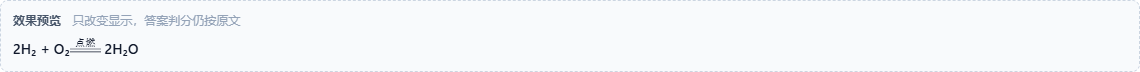
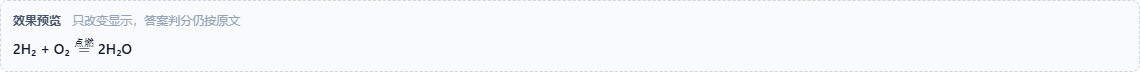
fix(editor): 条件改为等号正上方 \overset
- 条件使用 $\\overset{条件}{=}$，等号保持普通长度
- 已写等号时点击条件会替换原等号，不再多插一个符号
- 练习/作业/考试/套卷答题页同步
- 修复预览；ChemLearn 2.1.47

Changed region(s): [[0.0614, 0.5278, 0.1228, 0.7778]]

diff --git a/web/src/components/ChemSymbolBar.vue b/web/src/components/ChemSymbolBar.vue
@@ -16,7 +16,7 @@
         <span>b</span>
       </span>
       <span v-else-if="item.condition" class="chem-symbol-bar__glyph chem-symbol-bar__glyph--cond">
-        <span class="chem-symbol-bar__cond-text">{{ conditionText(item.condition) }}</span>
+        <span class="chem-symbol-bar__cond-text">{{ item.display || conditionText(item.condition) }}</span>
         <span class="chem-symbol-bar__cond-arrow">=</span>
       </span>
       <span v-else class="chem-symbol-bar__glyph">{{ item.text }}</span>
@@ -34,7 +34,7 @@
       <button
         type="button"
         class="chem-symbol-bar__custom-btn"
-        title="把自定义条件写到箭头上方"
+        title="把自定义条件写到等号上方"
         @pointerdown.prevent
         @click="insertCustom"
       >插入条件</button>
@@ -45,7 +45,7 @@
 <script setup>
 import { ref } from 'vue'
 
-const emit = defineEmits(['insert', 'fraction'])
+const emit = defineEmits(['insert', 'fraction', 'condition'])
 const customCondition = ref('')
 
 const insertCustom = () => {
@@ -53,7 +53,7 @@ const insertCustom = () => {
   if (!condition) return
   const safe = condition.replace(/[\[\]{}\\]/g, '')
   if (!safe) return
-  emit('insert', `$\\xlongequal{${safe}}$`)
+  emit('condition', safe)
   customCondition.value = ''
 }
 
@@ -72,7 +72,7 @@ const items = [
     title: '插入分数线：先选中 1/2 可直接变上下两行；选中文字则作分子，没选中就插空分数',
   },
   { condition: '点燃', label: '点燃', title: '插入等号上方条件：点燃' },
-  { condition: '\\Delta', label: '加热条件', title: '插入等号上方条件：加热（Δ）' },
+  { condition: '加热', display: 'Δ', label: '加热条件', title: '插入等号上方条件：加热（Δ）' },
   { condition: '高温', label: '高温', title: '插入等号上方条件：高温' },
   { condition: '催化剂', label: '催化剂', title: '插入等号上方条件：催化剂' },
   { condition: '电解', label: '电解', title: '插入等号上方条件：电解' },
@@ -83,7 +83,7 @@ const conditionText = (condition) => (condition === '\\Delta' ? 'Δ' : condition
 
 const pick = (item) => {
   if (item.fraction) emit('fraction')
-  else if (item.condition) emit('insert', `$\\xlongequal{${item.condition}}$`)
+  else if (item.condition) emit('condition', item.condition)
   else emit('insert', item.text)
 }
 </script>

diff --git a/web/src/views/admin/QuestionManage.vue b/web/src/views/admin/QuestionManage.vue
@@ -70,8 +70,8 @@
     <el-dialog v-model="dialogVisible" :title="editing ? '编辑题目' : '上传题目'" width="90%" top="5vh">
       <div class="chem-insert-bar">
         <span class="chem-insert-bar__label">符号 / 公式：</span>
-        <ChemSymbolBar @insert="insertSymbol" @fraction="insertFraction" />
-        <span class="chem-insert-bar__hint">点一下要输入的框，再点符号；条件按钮会插入 <code>\xlongequal{点燃}</code>，等号上方显示条件；也可以输入任意自定义条件；H2 会自动变 H₂</span>
+        <ChemSymbolBar @insert="insertSymbol" @fraction="insertFraction" @condition="insertCondition" />
+        <span class="chem-insert-bar__hint">点一下要输入的框，再点符号；条件按钮会插入 <code>\overset{点燃}{=}</code>，等号上方显示条件；也可以输入任意自定义条件；H2 会自动变 H₂</span>
       </div>
       <el-form :model="form" label-width="90px" size="default">
         <el-form-item label="题目标题" required>
@@ -234,7 +234,7 @@ import api from '@/api'
 import MathText from '@/components/MathText.vue'
 import ChemSymbolBar from '@/components/ChemSymbolBar.vue'
 import CrystalCellEditor from '@/components/CrystalCellEditor.vue'
-import { insertAtLastTextInput, insertFractionAtActiveInput } from '@/utils/input'
+import { insertAtLastTextInput, insertFractionAtActiveInput, insertConditionAtLastTextInput } from '@/utils/input'
 import { mediaUrl } from '@/utils/media'
 import { ElMessage, ElMessageBox } from 'element-plus'
 import { Plus, Delete, Download, Upload, Document, EditPen, Loading, Grid } from '@element-plus/icons-vue'
@@ -406,6 +406,12 @@ const resetForm = () => {
 const insertSymbol = (text) => {
   if (!insertAtLastTextInput(text)) {
     ElMessage.info('请先点一下要输入的题目框，再点符号')
+  }
+}
+
+const insertCondition = (condition) => {
+  if (!insertConditionAtLastTextInput(condition)) {
+    ElMessage.info('请先点一下要输入的题目框，再点条件')
   }
 }
 

diff --git a/web/src/views/student/Exams.vue b/web/src/views/student/Exams.vue
@@ -33,7 +33,7 @@
     <el-dialog v-model="showExam" :title="`${currentExam?.title} - 倒计时 ${formatTime(remaining)}`" width="900px" :close-on-click-modal="false" :close-on-press-escape="false" @close="confirmClose">
       <div style="display:flex;align-items:center;gap:8px;flex-wrap:wrap;margin-bottom:10px;">
         <span style="font-size:12px;color:var(--text-secondary);">化学符号 / 公式：</span>
-        <ChemSymbolBar @insert="insertSymbol" @fraction="insertFraction" />
+        <ChemSymbolBar @insert="insertSymbol" @fraction="insertFraction" @condition="insertCondition" />
         <span style="font-size:11.5px;color:var(--text-placeholder);">先点答案框，再点 ↑ 气体 / ↓ 沉淀；分数线可先填分子再填分母</span>
       </div>
       <div v-if="currentExam" class="exam-content">
@@ -185,7 +185,7 @@ import api from '@/api'
 import MathText from '@/components/MathText.vue'
 import ChemSymbolBar from '@/components/ChemSymbolBar.vue'
 import ScratchPad from '@/components/ScratchPad.vue'
-import { insertAtActiveInput, insertFractionAtActiveInput } from '@/utils/input'
+import { insertAtActiveInput, insertFractionAtActiveInput, insertConditionAtLastTextInput } from '@/utils/input'
 import { mediaUrl } from '@/utils/media'
 import { ElMessage, ElMessageBox } from 'element-plus'
 
@@ -201,6 +201,12 @@ const insertSymbol = (text) => {
 const insertFraction = () => {
   if (!insertFractionAtActiveInput()) {
     ElMessage.info('请先点一下答案输入框，再点分数线')
+  }
+}
+
+const insertCondition = (condition) => {
+  if (!insertConditionAtLastTextInput(condition)) {
+    ElMessage.info('请先点一下答案输入框，再点条件')
   }
 }
 const showExam = ref(false)

diff --git a/web/src/views/student/Assignments.vue b/web/src/views/student/Assignments.vue
@@ -33,7 +33,7 @@
     <el-dialog v-model="showDo" :title="currentAssignment?.title" width="900px" :close-on-click-modal="false">
       <div style="display:flex;align-items:center;gap:8px;flex-wrap:wrap;margin-bottom:10px;">
         <span style="font-size:12px;color:var(--text-secondary);">化学符号 / 公式：</span>
-        <ChemSymbolBar @insert="insertSymbol" @fraction="insertFraction" />
+        <ChemSymbolBar @insert="insertSymbol" @fraction="insertFraction" @condition="insertCondition" />
         <span style="font-size:11.5px;color:var(--text-placeholder);">先点答案框，再点 ↑ 气体 / ↓ 沉淀；分数线可先填分子再填分母</span>
       </div>
       <div v-if="currentAssignment" class="assignment-content">
@@ -179,7 +179,7 @@ import api from '@/api'
 import MathText from '@/components/MathText.vue'
 import ChemSymbolBar from '@/components/ChemSymbolBar.vue'
 import ScratchPad from '@/components/ScratchPad.vue'
-import { insertAtActiveInput, insertFractionAtActiveInput } from '@/utils/input'
+import { insertAtActiveInput, insertFractionAtActiveInput, insertConditionAtLastTextInput } from '@/utils/input'
 import { mediaUrl } from '@/utils/media'
 import { ElMessage, ElMessageBox } from 'element-plus'
 
@@ -195,6 +195,12 @@ const insertSymbol = (text) => {
 const insertFraction = () => {
   if (!insertFractionAtActiveInput()) {
     ElMessage.info('请先点一下答案输入框，再点分数线')
+  }
+}
+
+const insertCondition = (condition) => {
+  if (!insertConditionAtLastTextInput(condition)) {
+    ElMessage.info('请先点一下答案输入框，再点条件')
   }
 }
 const showDo = ref(false)

diff --git a/web/src/views/PracticeExam.vue b/web/src/views/PracticeExam.vue
@@ -101,7 +101,7 @@
         </div>
         <div v-if="!examSubmitted && !currentQuestion.options" style="display:flex;align-items:center;gap:8px;flex-wrap:wrap;margin-top:8px;">
           <span style="font-size:12px;color:var(--text-secondary);">插入符号：</span>
-          <ChemSymbolBar @insert="insertSymbol" @fraction="insertFraction" />
+          <ChemSymbolBar @insert="insertSymbol" @fraction="insertFraction" @condition="insertCondition" />
           <span style="font-size:11.5px;color:var(--text-placeholder);">先点答案框，再点 ↑ 气体 / ↓ 沉淀；分数线可先填分子再填分母</span>
         </div>
 
@@ -254,7 +254,7 @@ import api from '@/api'
 import MathText from '@/components/MathText.vue'
 import ChemSymbolBar from '@/components/ChemSymbolBar.vue'
 import ScratchPad from '@/components/ScratchPad.vue'
-import { insertAtActiveInput, insertFractionAtActiveInput } from '@/utils/input'
+import { insertAtActiveInput, insertFractionAtActiveInput, insertConditionAtLastTextInput } from '@/utils/input'
 import { mediaUrl } from '@/utils/media'
 import { ElMessage, ElMessageBox } from 'element-plus'
 import { Back, Close, ArrowLeft, ArrowRight } from '@element-plus/icons-vue'
@@ -383,6 +383,12 @@ const insertSymbol = (text) => {
 const insertFraction = () => {
   if (!insertFractionAtActiveInput()) {
     ElMessage.info('请先点一下答案输入框，再点分数线')
+  }
+}
+
+const insertCondition = (condition) => {
+  if (!insertConditionAtLastTextInput(condition)) {
+    ElMessage.info('请先点一下答案输入框，再点条件')
   }
 }
 

diff --git a/web/src/utils/input.js b/web/src/utils/input.js
@@ -36,6 +36,41 @@ export function insertAtLastTextInput(text, caretOffset) {
   return insertIntoInput(el, text, caretOffset)
 }
 
+/**
+ * 在等号上方插入条件：
+ * - 选中了 "="：直接把这个等号替换成带条件的等号
+ * - 光标前紧挨着 "="：替换前面的等号
+ * - 否则在光标处插入一个带条件的等号
+ */
+export function insertConditionAtLastTextInput(condition) {
+  const el = getLastTextInput()
+  if (!el) return false
+  const safe = String(condition || '').trim().replace(/[\\{}[\]]/g, '')
+  if (!safe) return false
+
+  const { start, end, value } = selectionOf(el)
+  let from = start
+  let to = end
+  let selected = value.slice(start, end)
+  if (!selected.trim()) {
+    let i = start - 1
+    while (i >= 0 && /\s/.test(value[i])) i -= 1
+    if (value[i] === '=') {
+      from = i
+      to = i + 1
+      selected = '='
+    }
+  } else if (selected.trim() === '=') {
+    // 选中等号，保持当前选区替换
+  }
+
+  const expr = `$\\overset{${safe}}{=}$`
+  replaceSelection(el, expr, from, to)
+  setCaret(el, from + expr.length)
+  el.focus()
+  return true
+}
+
 function insertIntoInput(el, text, caretOffset) {
   const { start, end } = selectionOf(el)
   replaceSelection(el, text, start, end)

diff --git a/backend/app/services/paper_template.py b/backend/app/services/paper_template.py
@@ -645,14 +645,14 @@ function renderMathLite(text) {
                 '</span><span class="mfrac__d">' + den + '</span></span>';
         continue;
       }
-      if (ch === '\\' && src.substr(i, 12) === '\\xlongequal{') {
-        const end = src.indexOf('}', i + 12);
+      if (ch === '\\' && src.substr(i, 9) === '\\overset{') {
+        const end = src.indexOf('}{=}', i + 9);
         if (end > 0) {
-          const condition = src.slice(i + 12, end);
+          const condition = src.slice(i + 9, end);
           flush();
           html += '<span class="mcond"><span class="mcond__txt">' + esc(condition) +
                   '</span><span class="mcond__arrow">=</span></span>';
-          i = end + 1;
+          i = end + 4;
           continue;
         }
       }
@@ -971,6 +971,30 @@ function insertFraction() {
   insertAtBlank(latex, caret);
 }
 
+function insertCondition(condition) {
+  const el = activeBlank;
+  if (!el || el.readOnly || state.finished) {
+    toast('请先点一下答案框，再点条件');
+    return;
+  }
+  const start = typeof el.selectionStart === 'number' ? el.selectionStart : el.value.length;
+  const end = typeof el.selectionEnd === 'number' ? el.selectionEnd : start;
+  let from = start;
+  let to = end;
+  const picked = el.value.slice(start, end);
+  if (!picked.trim()) {
+    let i = start - 1;
+    while (i >= 0 && /\s/.test(el.value[i])) i -= 1;
+    if (el.value[i] === '=') {
+      from = i;
+      to = i + 1;
+    }
+  }
+  const expr = '$\\overset{' + condition + '}{=}$';
+  try { el.setSelectionRange(from, to); } catch (err) { /* 忽略 */ }
+  insertAtBlank(expr, expr.length);
+}
+
 const symPanel = $('symPanel');
 $('btnSym').addEventListener('click', () => {
   symPanel.classList.toggle('open');
@@ -983,8 +1007,7 @@ document.querySelectorAll('.sym-btn').forEach((btn) => {
     if (btn.id === 'btnFrac') { insertFraction(); return; }
     const cond = btn.getAttribute('data-cond');
     if (cond) {
-      const expr = '$\\xlongequal{' + cond + '}$';
-      insertAtBlank(expr, expr.length);
+      insertCondition(cond);
       return;
     }
     const sym = btn.getAttribute('data-sym') || btn.textContent;
@@ -999,8 +1022,7 @@ $('btnCondCustom') && $('btnCondCustom').addEventListener('click', () => {
     toast('先输入条件，例如：浓硫酸 / Δ');
     return;
   }
-  const expr = '$\\xlongequal{' + cond + '}$';
-  insertAtBlank(expr, expr.length);
+  insertCondition(cond);
   condCustom.value = '';
 });
 

diff --git a/README.md b/README.md
@@ -1,4 +1,4 @@
-# 化学学习系统 · ChemLearn
+# 化学学习系统 · ChemLearn
 
 [![CI](https://github.com/houshibo0101/chemlearn/actions/workflows/ci.yml/badge.svg)](https://github.com/houshibo0101/chemlearn/actions/workflows/ci.yml)
 
@@ -92,7 +92,7 @@
 - 结晶水 `CuSO4·5H2O`、有机物 `CH3COOH` 同样识别
 - 电荷用 `^`：`Fe^3+` → Fe³⁺，`SO4^2-` → SO₄²⁻
 - 也支持 LaTeX：行内 `$H_2SO_4$`，块级 `$$\Delta H < 0$$`，化学式 `\ce{2Na + 2H2O -> 2NaOH + H2 ^}`
-- 条件写在等号上方：`$\xlongequal{点燃}$`；题库编辑器和套卷答题页的符号栏可直接点「点燃/加热/高温/催化剂/电解/光照」，也可以输入任意自定义条件后插入
+- 条件写在等号上方：`$\overset{点燃}{=}$`；题库编辑器和套卷答题页的符号栏可直接点「点燃/加热/高温/催化剂/电解/光照」，也可以输入任意自定义条件后插入
 
 自动排版只改变显示，数据库仍保存原文，因此答案判分不受影响；手动录入（编辑框有实时预览）、批量导入、作业/考试答题预览都会生效。**正确答案**字段下方同样有实时预览，答题结果页的正确答案也会自动排版。
 
